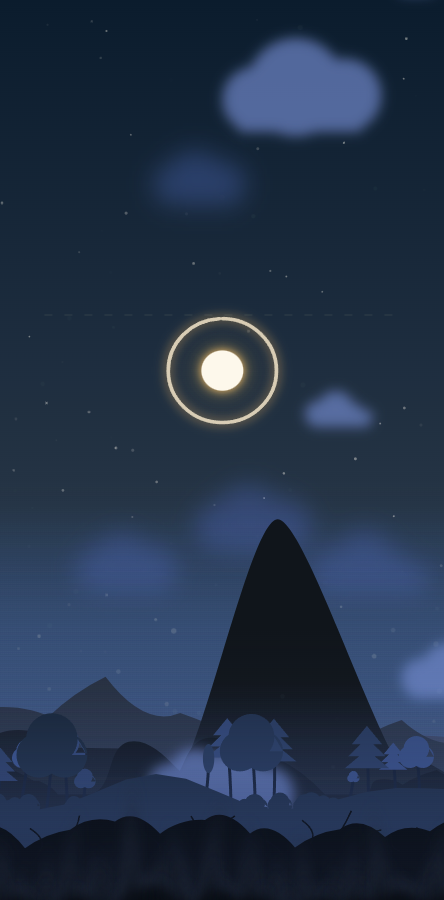
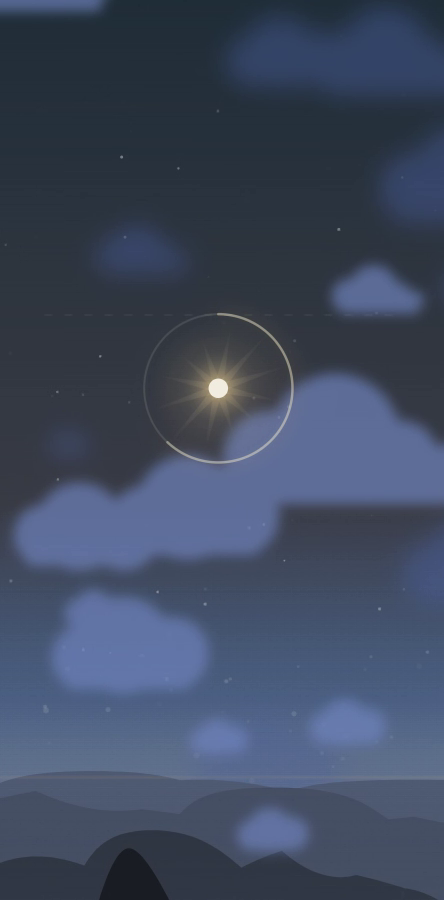
press: galeria do itch.io refeita a partir da build 20
Yata ja tinha autorizado mexer na pagina; eu tinha voltado a perguntar. Feito.

A arte que existia era da build 18: mostrava o painel de texto do HUD, que
deixou de existir. Arte de imprensa envelhece junto com a mecanica — o mesmo
entulho de sempre, so que em imagem.

- gravado do Chrome real a 60fps (o painel do navegador embutido estava a
  1fps e o guarda novo barrou a gravacao, como devia)
- luma-loop.gif: um ciclo de respiracao inteiro, 264x535, 1,8MB (o limite do
  itch e 3MB; a primeira versao saiu 3,3MB)
- tres stills novos; os seis antigos removidos do repositorio e da galeria
- o GIF vem primeiro na galeria

ITCH-PAGE.md agora lista o que esta no ar e por que a arte foi substituida em
vez de acumulada.

diff --git a/ITCH-PAGE.md b/ITCH-PAGE.md
@@ -104,7 +104,19 @@ Deixei de fora `pixel-art` (não é), `2d` (genérico demais para trazer alguém
 A página depende de imagens que eu não posso gerar aqui:
 
 1. **Cover image 630×500** — é o que aparece em toda listagem. Sem uma boa, o texto não é lido. Sugestão: o sol no centro alto, horizonte baixo, muito espaço negativo escuro, e o título pequeno. O contraste do sol contra o azul profundo é a assinatura visual do jogo — use isso.
-2. **Screenshots (3 a 5)** — priorize: o sol acima da linha do amanhecer com aurora, o mapa da jornada com as constelações, e um momento de combo alto. Evite screenshot de menu.
+2. **Screenshots (3 a 5)** — evite screenshot de menu. **O que está no ar hoje** (subido em 08/09/2026, gravado da build 20):
+
+   | arquivo | o que mostra |
+   |---|---|
+   | `press/luma-loop.gif` | um ciclo de respiração inteiro: o anel enchendo, o gesto ao soltar e o sol subindo — vem primeiro na galeria |
+   | `press/shot-01-gameplay.png` | o sol com o anel a meio caminho, nuvens em camadas |
+   | `press/shot-02-subindo.png` | o instante do gesto, com o raio de luz e a linha do amanhecer |
+   | `press/shot-03-ritmo.png` | altitude ganha, montanhas recuando em perspectiva aérea |
+
+   **A arte de imprensa envelhece junto com o jogo.** As screenshots anteriores mostravam o
+   painel de texto do HUD, que deixou de existir; foram substituídas, não acumuladas. Antes
+   de subir arte nova, confira se ela ainda mostra a versão atual — é o mesmo entulho
+   descrito em [VERIFICACAO.md](VERIFICACAO.md), só que em imagem.
 3. **GIF curto** — o itch dá muito peso a movimento na listagem. Um loop de 3s mostrando segurar → pulsar → o mundo respondendo vale mais que qualquer parágrafo desta página.
 
 ## Nota honesta sobre "performance de busca"
